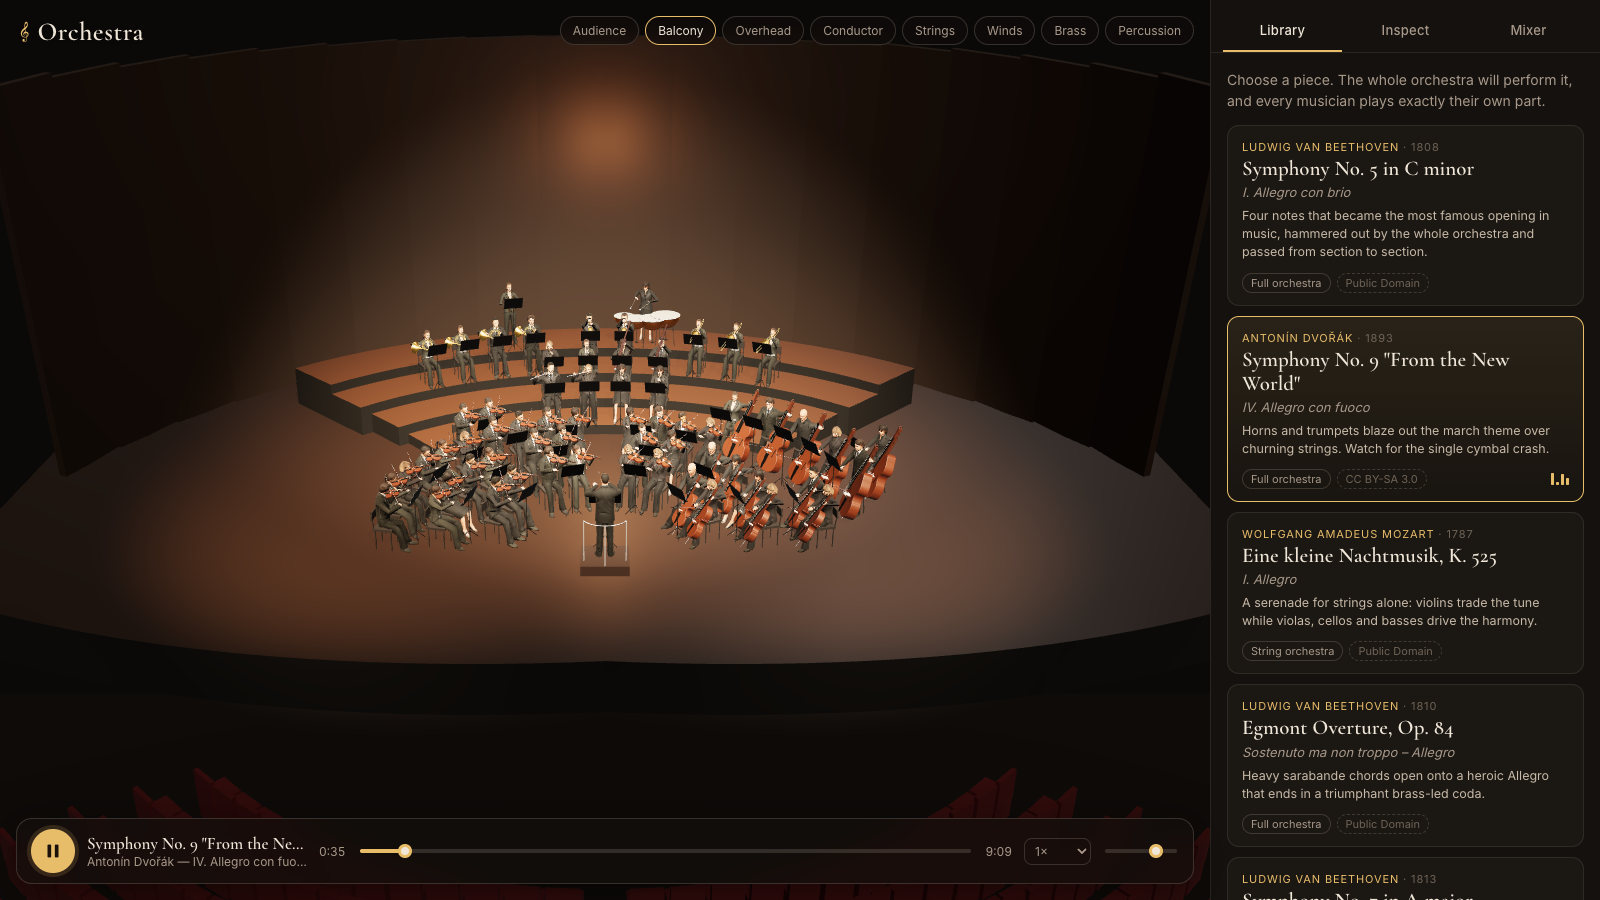
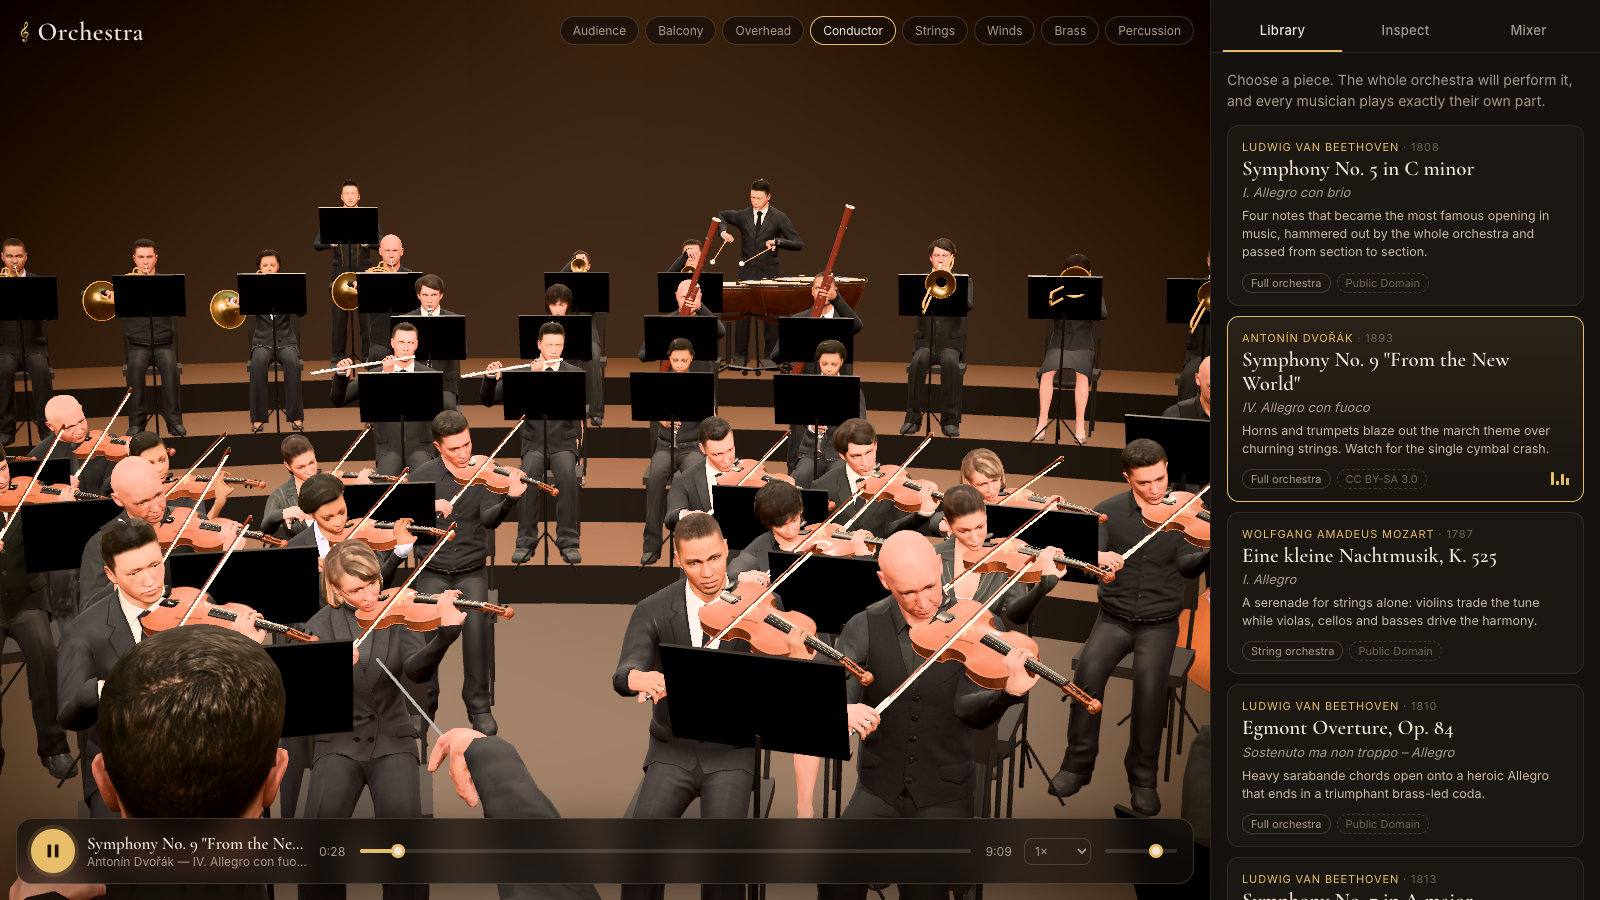
Formal conductor, over-the-shoulder conductor view

diff --git a/src/assets/characterFactory.ts b/src/assets/characterFactory.ts
@@ -121,7 +121,9 @@ export function characterVariantCount(): number {
  */
 export function createCharacter(seed: number, section: string, conductor = false, variant?: number): CharacterInstance {
   if (protos.length) {
-    const pool = conductor ? protos.filter((p) => p.entry.gender !== 'female') : protos;
+    // the conductor wears all black (Business_Male_06) when that avatar is available
+    const formal = protos.filter((p) => /business_male_06/.test(p.entry.id));
+    const pool = conductor ? (formal.length ? formal : protos.filter((p) => p.entry.gender !== 'female')) : protos;
     const list = pool.length ? pool : protos;
     const proto = variant !== undefined && !conductor ? protos[variant % protos.length] : list[Math.floor(seed * list.length) % list.length];
     const root = new Group();

diff --git a/src/scene/Viewport.tsx b/src/scene/Viewport.tsx
@@ -236,7 +236,7 @@ const PRESETS: Record<CameraPreset, { pos: [number, number, number]; target: [nu
   audience: { pos: [0, 4.2, 14], target: [0, 0.9, -4.6] },
   balcony: { pos: [0, 13, 24], target: [0, 0.4, -4.5] },
   overhead: { pos: [0, 23, -3.5], target: [0, 0, -4.8] },
-  conductor: { pos: [0, 2.05, 0.75], target: [0, 1.15, -6] },
+  conductor: { pos: [0.45, 2.35, 1.5], target: [0, 1.05, -6] },
   strings: { pos: [0.4, 3.2, 3.2], target: ['violin1', 'violin2', 'viola', 'cello'] },
   woodwinds: { pos: [0, 3.4, -1.6], target: ['flute', 'oboe', 'clarinet', 'bassoon'] },
   brass: { pos: [4.2, 4.2, -2.2], target: ['horn', 'trumpet', 'trombone', 'tuba'] },

diff --git a/README.md b/README.md
@@ -82,7 +82,7 @@ MIDI ──► Score (parts, beat grid, loudness) ──► Plans (bowing, raise
 
 ## Realism features
 
-- **Characters.** Microsoft Rocketbox avatars are processed by the Blender pipeline in `tools/blender/`:
+- **Characters.** 12 Microsoft Rocketbox avatars (7 men, 5 women) are processed by the Blender pipeline in `tools/blender/`:
   - 2k textures, with roughness maps derived from the specular maps;
   - a subdivided LOD for close-ups plus 3 lower LODs;
   - forearm twist bones re-weighted into the skin;
